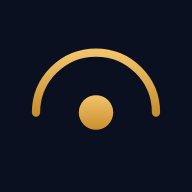
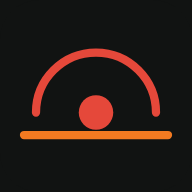
Palette from the owner's reference: near-black, red, orange, soft grey
Claude-Session: https://claude.ai/code/session_013VMwR7LvqghpFT8Sn46fYv

Changed region(s): [[0.0938, 0.4688, 0.9062, 0.75], [0.1562, 0.25, 0.8438, 0.625]]

diff --git a/style.css b/style.css
@@ -1,5 +1,5 @@
-:root{--bg:#0A1020;--bg2:#0F1730;--card:#131C34;--card2:#182341;--line:#243252;--text:#E7ECF6;--dim:#8D9BB8;--accent:#E6B04B;--accent-soft:rgba(230,176,75,.14);--blue:#6EA8FF;--ok:#5FD3A4;--bad:#F2796B;--shadow:0 8px 28px rgba(0,0,0,.28);--radius:16px}
-:root[data-theme=light]{--bg:#F4F1EA;--bg2:#ECE7DB;--card:#FFFFFF;--card2:#FBF9F4;--line:#E2DCCB;--text:#14203A;--dim:#5C6B85;--accent:#A8741A;--accent-soft:rgba(168,116,26,.12);--blue:#2F6FD6;--ok:#1F8F68;--bad:#C4493B;--shadow:0 6px 20px rgba(20,32,58,.08)}
+:root{--bg:#111312;--bg2:#1B1E1D;--card:#181B1A;--card2:#1E2221;--line:#2D3231;--text:#F2F3F2;--dim:#98A09C;--accent:#E5483A;--accent-soft:rgba(229,72,58,.14);--blue:#F37A21;--ok:#5FD3A4;--bad:#F2796B;--shadow:0 8px 28px rgba(0,0,0,.35);--radius:16px}
+:root[data-theme=light]{--bg:#F3F2EF;--bg2:#E9E7E1;--card:#FFFFFF;--card2:#FBFAF8;--line:#E0DDD5;--text:#111312;--dim:#5E6663;--accent:#C42D20;--accent-soft:rgba(196,45,32,.1);--blue:#D8650F;--ok:#1F8F68;--bad:#C4493B;--shadow:0 6px 20px rgba(17,19,18,.08)}
 *{box-sizing:border-box}html{-webkit-text-size-adjust:100%;scroll-behavior:smooth}
 body{margin:0;background:var(--bg);background-image:radial-gradient(1200px 500px at 50% -120px,var(--bg2),transparent);color:var(--text);font:15px/1.5 system-ui,-apple-system,"Segoe UI",Roboto,Helvetica,Arial,sans-serif;min-height:100vh;padding:env(safe-area-inset-top) env(safe-area-inset-right) env(safe-area-inset-bottom) env(safe-area-inset-left)}
 .skip{position:absolute;left:-999px}.skip:focus{left:8px;top:8px;background:var(--accent);color:var(--bg);padding:6px 10px;z-index:99;border-radius:6px}
@@ -46,15 +46,15 @@ main{max-width:1180px;margin:0 auto;padding:22px 20px 8px;outline:0}
 .blk.proj .cube i{background:linear-gradient(180deg,var(--blue),color-mix(in srgb,var(--blue) 55%,var(--bg)))}
 form.row,.row{display:flex;flex-wrap:wrap;gap:10px;align-items:center;margin:10px 0}
 input,select{font:inherit;background:var(--bg);color:var(--text);border:1px solid var(--line);border-radius:10px;padding:9px 11px;min-width:0;max-width:100%}
-.btn-go{background:var(--accent);color:#1A1405;border-color:var(--accent);font-weight:700}.btn-go:hover{filter:brightness(1.08)}
+.btn-go{background:var(--accent);color:#FFFFFF;border-color:var(--accent);font-weight:700}.btn-go:hover{filter:brightness(1.08)}
 h1{font:700 22px system-ui,sans-serif;letter-spacing:.14em;color:var(--text);margin:4px 0 14px}
 .dim{color:var(--dim)}.ok{color:var(--ok)}.bad{color:var(--bad)}
 .glossary dt{font-weight:700;color:var(--accent);margin-top:14px}.glossary dd{margin:3px 0 0}
 table{border-collapse:collapse;width:100%;font-size:14px}th,td{padding:9px 8px;border-bottom:1px solid var(--line);text-align:left}th{color:var(--dim);font-weight:600}
-.modal{position:fixed;inset:0;z-index:20;background:rgba(5,9,18,.66);display:flex;align-items:flex-start;justify-content:center;padding:7vh 12px;overflow:auto}.modal[hidden]{display:none}
+.modal{position:fixed;inset:0;z-index:20;background:rgba(6,7,7,.7);display:flex;align-items:flex-start;justify-content:center;padding:7vh 12px;overflow:auto}.modal[hidden]{display:none}
 .sheet{position:relative;background:var(--card);border:1px solid var(--line);border-radius:18px;padding:22px;width:min(580px,100%);box-shadow:var(--shadow)}
 .x{position:absolute;right:10px;top:10px;border:0;background:transparent}
-.toast{position:fixed;left:50%;bottom:24px;transform:translateX(-50%);background:var(--accent);color:#1A1405;padding:11px 18px;border-radius:12px;font-weight:700;z-index:30;max-width:92vw}.toast[hidden]{display:none}
+.toast{position:fixed;left:50%;bottom:24px;transform:translateX(-50%);background:var(--accent);color:#FFFFFF;padding:11px 18px;border-radius:12px;font-weight:700;z-index:30;max-width:92vw}.toast[hidden]{display:none}
 label.chk{display:flex;gap:10px;align-items:center;margin:8px 0}
 .tabs{display:flex;gap:6px;margin-bottom:12px}.tabs button[aria-selected=true]{border-color:var(--accent);color:var(--accent);background:var(--accent-soft)}
 .reduced *,.reduced *::before{transition:none!important;scroll-behavior:auto!important}

diff --git a/index.html b/index.html
@@ -5,7 +5,7 @@
 <meta name="viewport" content="width=device-width, initial-scale=1, viewport-fit=cover">
 <title>BLOCKHORIZON</title>
 <meta name="description" content="Live Bitcoin dashboard where block height is the clock. No accounts, no tracking.">
-<meta name="theme-color" content="#0A1020">
+<meta name="theme-color" content="#111312">
 <meta http-equiv="Content-Security-Policy" content="default-src 'self'; script-src 'self'; style-src 'self'; style-src-attr 'unsafe-inline'; img-src 'self' data:; connect-src 'self' https://mempool.space wss://mempool.space; manifest-src 'self'; base-uri 'none'; form-action 'none'">
 <link rel="manifest" href="manifest.webmanifest">
 <link rel="icon" href="icons/icon.svg" type="image/svg+xml">

diff --git a/src/app.js b/src/app.js
@@ -27,7 +27,7 @@ function applyLook() {
   document.documentElement.dataset.theme = dark ? 'dark' : 'light';
   document.documentElement.lang = S.lang; setLang(S.lang);
   document.body.classList.toggle('reduced', S.reduced); document.body.classList.toggle('nopulse', !S.pulse);
-  const m = $('meta[name=theme-color]'); if (m) m.content = dark ? '#0A1020' : '#F4F1EA';
+  const m = $('meta[name=theme-color]'); if (m) m.content = dark ? '#111312' : '#F3F2EF';
 }
 const price = () => (st.prices && st.prices[S.cur]) || NaN;
 const NAVS = [['/', 'dash'], ['/alarm', 'alarm'], ['/calc', 'calc'], ['/replay', 'replay'], ['/events', 'events'], ['/glossary', 'glossary'], ['/about', 'about']];
